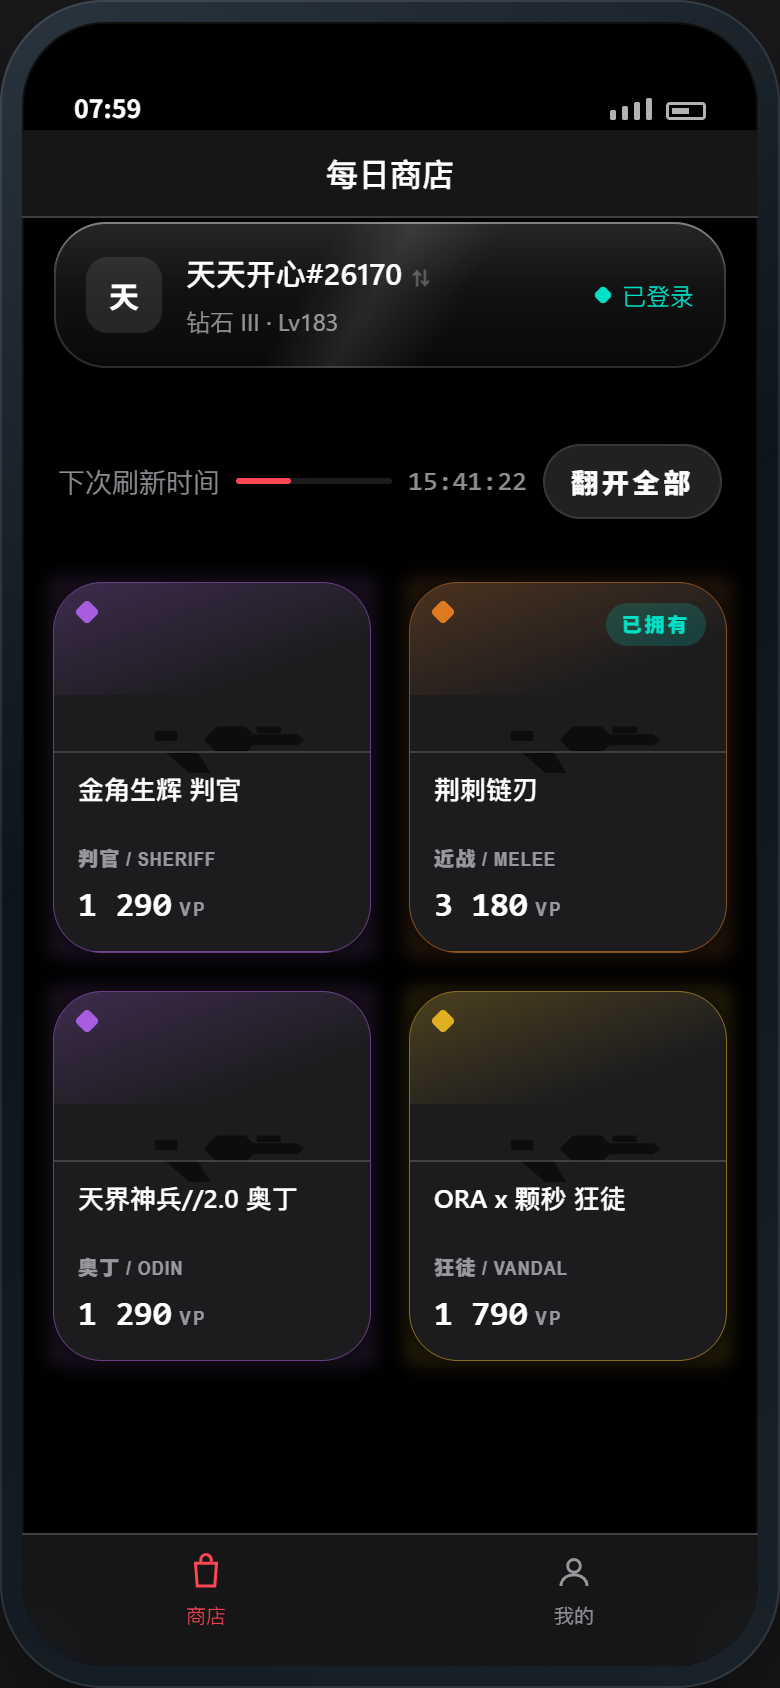
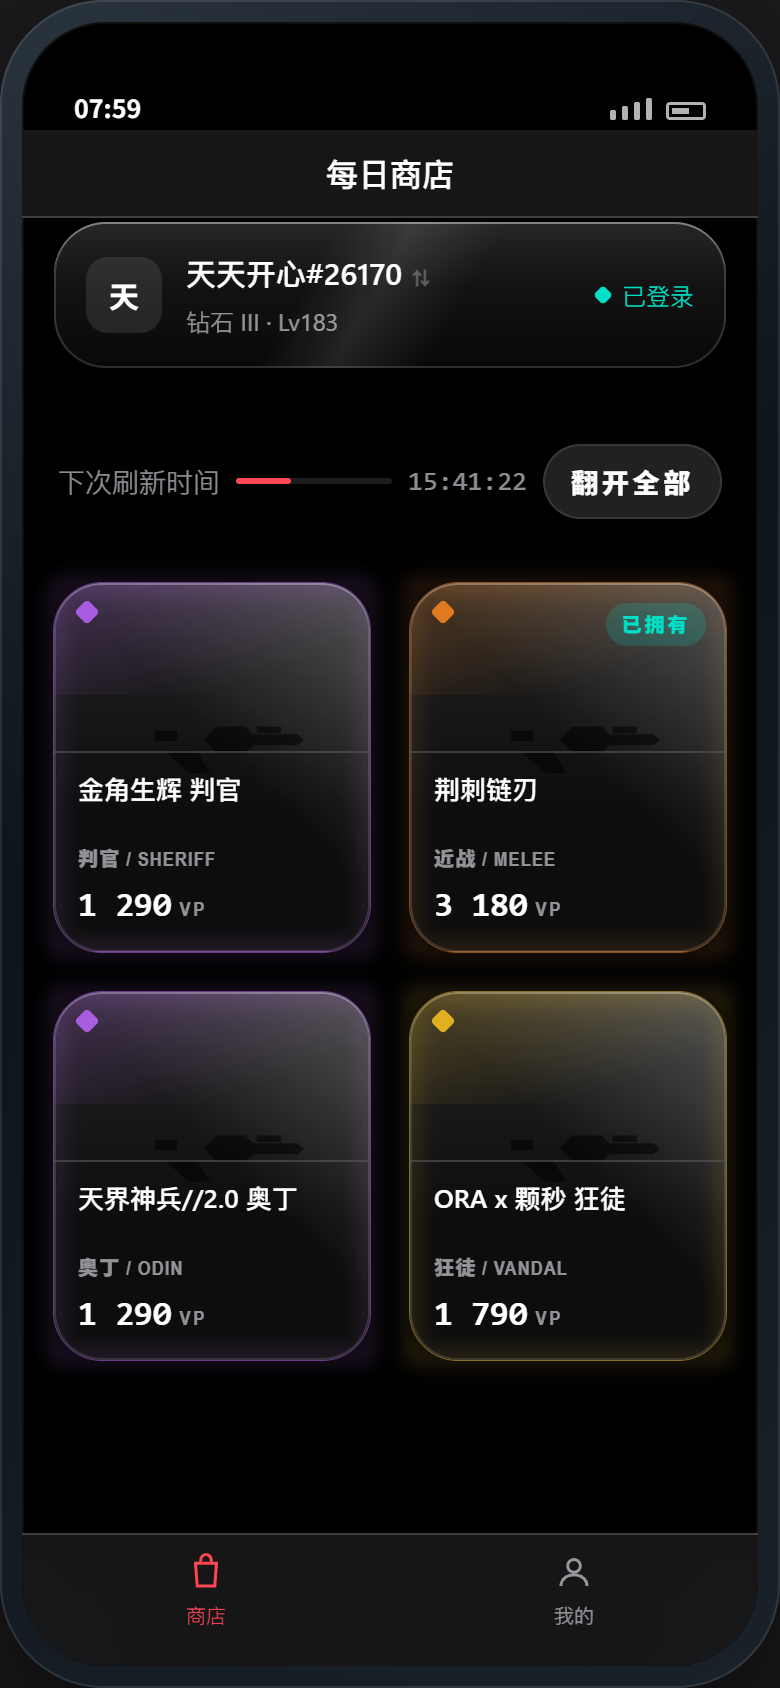
卡牌改 Apple 液态玻璃（zwCardGlass），其余 UI 一律没动
- 卡面：原来的不透明分组底（Color(.secondarySystemGroupedBackground)）换成系统原生
  glassEffect(.regular, in: 圆角形状)，外面再加一圈边缘镜面高光（左上亮、右下收），
  封装在 LiquidGlass.zwCardGlass()。全项目的 glassEffect 调用仍然只有 LiquidGlass.swift 一处。
- 只改了卡牌：FlipCard 的一行背景换成 .zwCardGlass(cornerRadius)。身份条、标题行、
  引信条、间距、翻牌时间轴、细线光效全部保持上一版。
- 预期内的副作用：玻璃是半透的，卡边上那圈晕染光会透进卡里一点点 —— 这是玻璃该有的样子；
  要恢复"卡内一点光都不透"，把 edgeGlow 换回不透明底即可。
- 预览台：玻璃挂 .flipper::before（跟着卡一起被压扁）。挂 .card 上会压平里面那层的
  3D 上下文，翻牌就只剩卡背 —— 这条坑在 README 里记着。
- 可退回版本：tag pre-card-glass → 4b93be6（换玻璃之前的最后一版），已推到远端。
  README 里也写了怎么退。
- design/shots 重出（s1/s2）。

diff --git a/val-shop-ios/design/preview.html b/val-shop-ios/design/preview.html
@@ -206,11 +206,27 @@ body{
 
 .slots{display:grid;grid-template-columns:1fr 1fr;gap:var(--gap);perspective:1100px}
 
-/* ---------- 卡（内容，不透明）---------- */
-/* 卡片：外壳只负责尺寸和底，旋转交给里面的 .flipper 一层（3D 上下文只存在于这一层） */
+/* ---------- 卡（液态玻璃）---------- */
+/* 卡面：Apple 液态玻璃（App 侧是系统原生 glassEffect）。这里是手写近似：
+   半透明材质 + 背景模糊/加饱和 + 内高光 + 左上到右下的边缘镜面。
+   ⚠ 玻璃必须挂在 `.card::before`（伪元素是 flipper 的**兄弟**，不是祖先）：
+   把 backdrop-filter 挂在 `.card` 上会压平里面那层的 3D 上下文，翻牌就只剩卡背了 ——
+   这条坑在 README「会翻的那层不能上模糊/裁剪」里记着。 */
 .card{
-  position:relative;aspect-ratio:6/7;background:var(--grouped-bg);border-radius:var(--r-card);
+  position:relative;aspect-ratio:6/7;border-radius:var(--r-card);
   cursor:pointer;
+}
+/* 玻璃挂在 **.flipper 的伪元素**上：它跟着卡一起转，翻到侧身时会被一起压扁。
+   挂 .card 上的话，卡转了玻璃还是平的 —— 会留一块不动的板子在后面。 */
+.card .flipper::before{
+  content:"";position:absolute;inset:0;border-radius:var(--r-card);pointer-events:none;
+  background:linear-gradient(135deg,rgba(255,255,255,.22),transparent 46%),
+             linear-gradient(180deg,rgba(255,255,255,.14),rgba(255,255,255,.05) 62%);
+  backdrop-filter:blur(18px) saturate(1.6);
+  -webkit-backdrop-filter:blur(18px) saturate(1.6);
+  box-shadow:inset 0 0 0 1px rgba(255,255,255,.14),
+             inset 0 1px 0 rgba(255,255,255,.24),
+             inset 0 -1px 0 rgba(0,0,0,.32);
 }
 .card .flipper{
   position:absolute;inset:0;transform-style:preserve-3d;
@@ -229,7 +245,7 @@ body{
   position:absolute;inset:0;
   backface-visibility:hidden;-webkit-backface-visibility:hidden;
   display:flex;flex-direction:column;
-  border-radius:var(--r-card);background:var(--grouped-bg);
+  border-radius:var(--r-card);background:transparent;
   clip-path:inset(0 round var(--r-card));
 }
 .card .face.front{transform:rotateY(180deg)}

diff --git a/val-shop-ios/App/LiquidGlass.swift b/val-shop-ios/App/LiquidGlass.swift
@@ -45,4 +45,25 @@ extension View {
         glassEffect(.regular.interactive(),
                     in: RoundedRectangle(cornerRadius: radius, style: .continuous))
     }
+
+    /// 卡牌用的液态玻璃：系统 `glassEffect` + 一圈边缘镜面高光。
+    ///
+    /// 只给 `FlipCard` 用（卡面就是一块玻璃）。玻璃画在内容**后面**，
+    /// 所以卡背斜纹、卡面品质渐变、名字价格都还在它上面。
+    /// 和 `zwGlassCard` 的区别：这个不带 `.interactive()`（卡片不是控件，
+    /// 按住时不该有形变反馈）。
+    func zwCardGlass(_ radius: CGFloat) -> some View {
+        let shape = RoundedRectangle(cornerRadius: radius, style: .continuous)
+        return glassEffect(.regular, in: shape)
+            .overlay {
+                // 玻璃的"边缘镜面"：左上亮、右下收，是一块玻璃最容易被认出来的特征
+                shape.strokeBorder(
+                    LinearGradient(colors: [.white.opacity(0.30),
+                                            .white.opacity(0.04),
+                                            .white.opacity(0.12)],
+                                   startPoint: .topLeading,
+                                   endPoint: .bottomTrailing),
+                    lineWidth: 0.8)
+            }
+    }
 }

diff --git a/val-shop-ios/App/FlipCard.swift b/val-shop-ios/App/FlipCard.swift
@@ -175,8 +175,10 @@ private struct Flipper<Back: View, Front: View>: View, Animatable {
                 .opacity(frontOpacity)
         }
         .clipShape(shape)
-        .background(Color(.secondarySystemGroupedBackground), in: shape)
-        // 晕染光画在不透明卡底**后面** → 只露在卡外，卡里一点不被冲淡
+        // 卡面：Apple 液态玻璃（取代原来的不透明分组底），见 LiquidGlass.zwCardGlass
+        .zwCardGlass(cornerRadius)
+        // 晕染光画在玻璃**后面**：玻璃是半透的，所以边缘会透进一点点光 ——
+        // 这正是玻璃该有的样子；要高对比就把 edgeGlow 的不透明度调回去。
         .background { edgeGlow }
         // 细线画在卡边（overlay 不受 clipShape 影响，负 inset 会往外扩）
         .overlay { edgeLine }

diff --git a/val-shop-ios/README.md b/val-shop-ios/README.md
@@ -323,6 +323,10 @@ Info.plist 里开了 `UIFileSharingEnabled` + `LSSupportsOpeningDocumentsInPlace
 > 验算台：[`probe/animatable_probe.swift`](probe/animatable_probe.swift)，三种写法 + 一组会失败的对照。
 
 > 玻璃卡片之间的 morph 效果没了。卡片现在是**内容**，内容层不上玻璃（规矩三）。
+>
+> **例外：卡牌本身**。这一版把卡面换成了系统原生液态玻璃（`zwCardGlass()`），
+> 想退回不透明卡底：`git checkout pre-card-glass`（tag 打在 `4b93be6`，
+> 也就是换玻璃之前的最后一版），或者直接 revert 这个提交。
 
 ### token 在哪（`App/DesignSystem.swift`）
 
@@ -335,7 +339,7 @@ Info.plist 里开了 `UIFileSharingEnabled` + `LSSupportsOpeningDocumentsInPlace
 | 品质五档 | `Rarity.colorHex` —— 服务端数据（掌瓦 `ic_val_goods_quality_1..5`），**不可改** |
 | 字号 | Dynamic Type 文本样式，见上表 |
 | 两处腔调 | 机器腔 `.system(style).weight(.heavy).width(.compressed)`（**只排拉丁小标**）；数据腔 `.system(style, design: .monospaced)` |
-| 几何 | 分组 16 / 卡片 24 / 玻璃条 26 / 小控件 11 / 发丝线 1 / 页边 16 / 块间距 12 / **卡阵间距 20**（`cardGap`）/ 引信条宽 80（`fuseWidth`） |
+| 几何 | 分组 16 / 卡片 24 / 玻璃条 26 / 小控件 11 / 发丝线 1 / 页边 16 / 块间距 12 / **卡阵间距 20**（`cardGap`）/ 引信条最小宽 64（`fuseWidth`） |
 | 自绘形状 | `ZWDiamond`、`ZWHatchTexture` —— 附几何验算台 |
 
 ### 冷启动与图片缓存
@@ -387,7 +391,7 @@ swiftc -O flow_probe.swift -o flow.exe; .\flow.exe
 | 要求 | 实现 |
 |---|---|
 | Liquid Glass | 玻璃**只作控件层材质**（HIG Materials）：`TabView` / `NavigationStack` / `.sheet` 全由系统出玻璃；按钮用 `ButtonStyle.glass` ⇄ `glassProminent`；`.tabBarMinimizeBehavior(.onScrollDown)`；`.scrollEdgeEffectStyle(.soft, for:)` 走 `zwScrollEdge()`。`glassEffect` 只在 `zwGlassCard()` 里出现一次（身份条），圆角走 `ZW.radiusGlass = 26` |
-| 内容层材质 | 不透明：`Color(.systemBackground)` / `.secondarySystemGroupedBackground` / `.tertiarySystemFill`，全部系统语义色。身份条例外：液态玻璃（`zwGlassCard()`） |
+| 内容层材质 | 不透明：`Color(.systemBackground)` / `.secondarySystemGroupedBackground` / `.tertiarySystemFill`，全部系统语义色。例外两处：身份条（`zwGlassCard()`）与**卡牌**（`zwCardGlass()`），都是系统原生 `glassEffect` |
 | 颜色来源 | 品牌红青绿在 `Assets.xcassets` 的 colorset；文字只用 `.primary/.secondary/.tertiary`（HIG Color） |
 | 外观 | `Info.plist` 声明 `UIUserInterfaceStyle = Dark`，纯深色 App（HIG Supporting Dark Mode） |
 | 字体 | 全部 Dynamic Type 文本样式；两处腔调 = 系统字体 + `weight`/`width`/`design`，无第三方字体（HIG Typography） |
